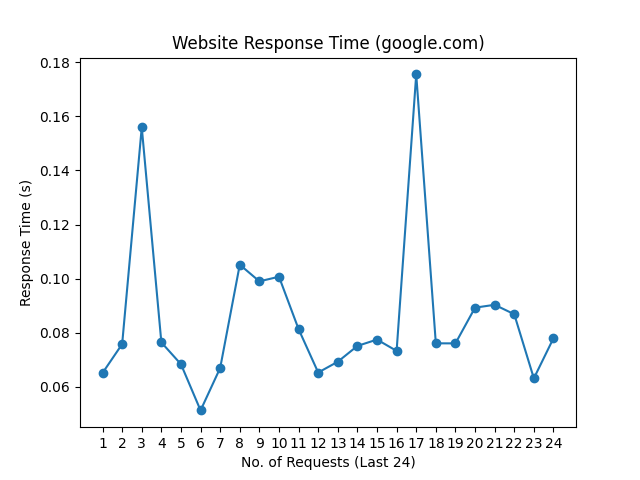
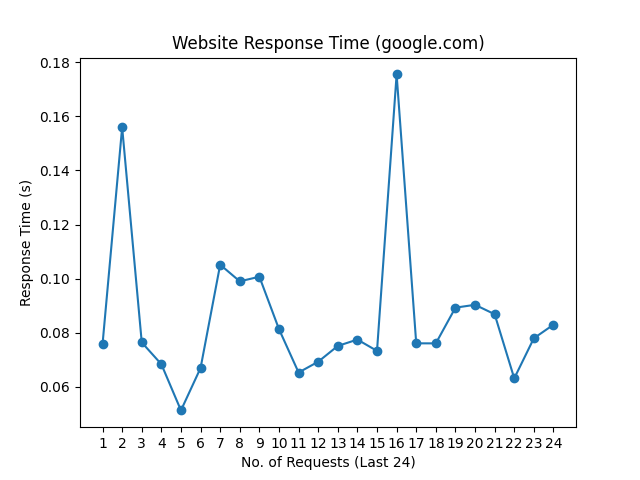
update README.md, history and graph

Changed region(s): [[0.1562, 0.125, 0.875, 0.875]]

diff --git a/README.md b/README.md
@@ -1,10 +1,10 @@
 # Web Monitoring
 
-Last Checked: 19/09/2024 08:19
+Last Checked: 20/09/2024 08:19
 
 | Website | Response Time (s) | Status | Avg Uptime (%) |
 |---------|-------------------|--------|----------------|
 | www.thiswebsiteisdown.net | 0 <br> <img src="graph/thiswebsiteisdown.net.png" alt="Graph" width="200" height="200">  | ❌ Down | 0.00 |
-| www.netflix.com | 0.963143 <br> <img src="graph/netflix.com.png" alt="Graph" width="200" height="200">  | ✅ Up | 100.00 |
-| www.google.com | 0.077980 <br> <img src="graph/google.com.png" alt="Graph" width="200" height="200">  | ✅ Up | 100.00 |
-| www.facebook.com | 0.476094 <br> <img src="graph/facebook.com.png" alt="Graph" width="200" height="200">  | ✅ Up | 100.00 |
+| www.netflix.com | 1.034768 <br> <img src="graph/netflix.com.png" alt="Graph" width="200" height="200">  | ✅ Up | 100.00 |
+| www.google.com | 0.083002 <br> <img src="graph/google.com.png" alt="Graph" width="200" height="200">  | ✅ Up | 100.00 |
+| www.facebook.com | 0.736289 <br> <img src="graph/facebook.com.png" alt="Graph" width="200" height="200">  | ✅ Up | 100.00 |
